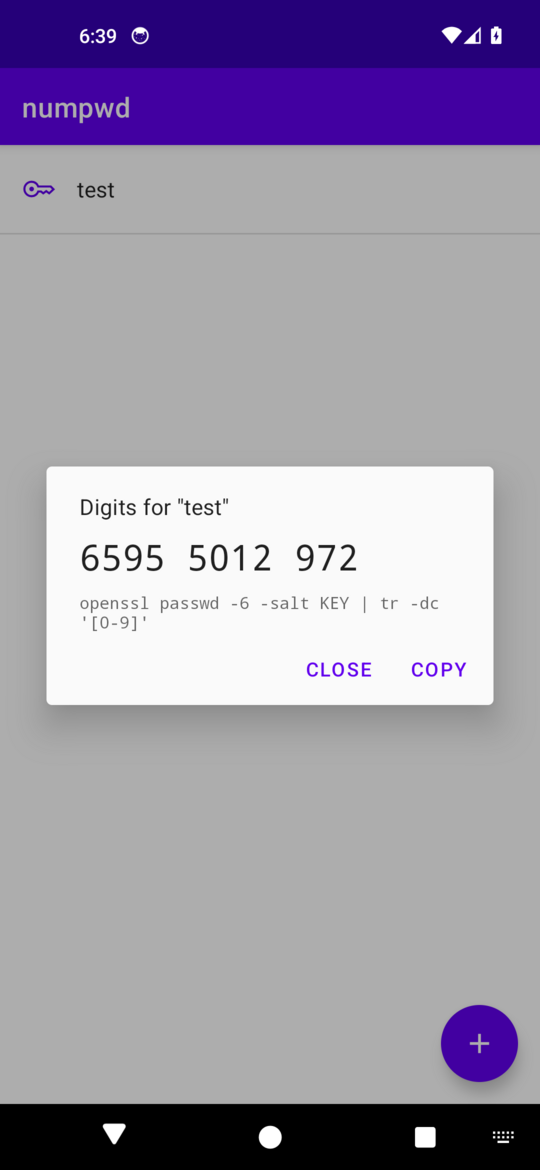
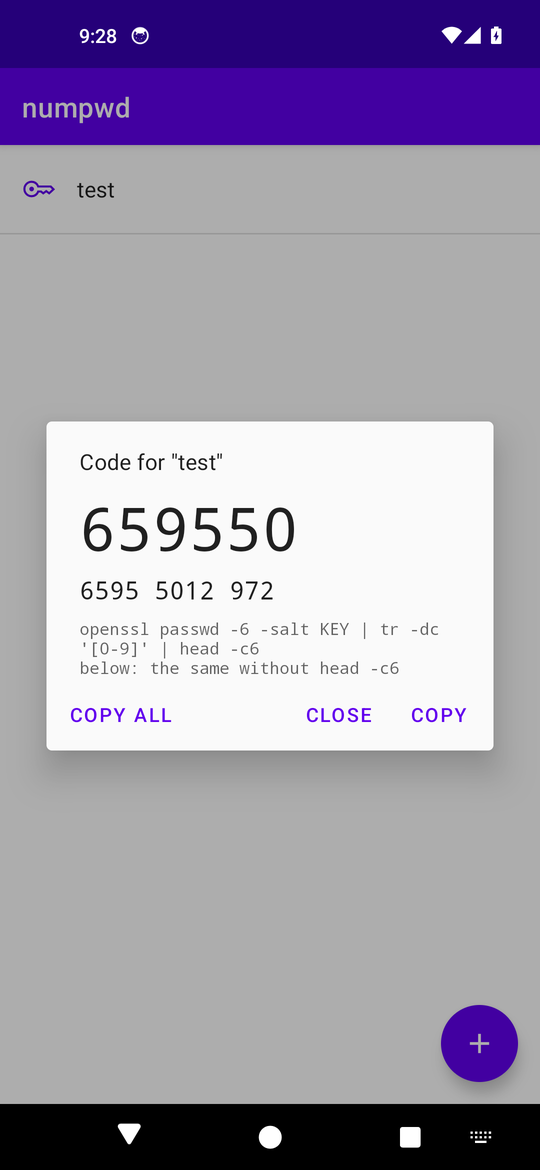
Document the six-character code and the hidden password field
README and the store description show the head -c6 pipeline, the bracket and
short-output cases and the password field behaviour. New screenshots of the
password dialog and the result dialog (light and dark), taken from a local build
without FLAG_SECURE.

diff --git a/README.md b/README.md
@@ -6,15 +6,19 @@ compatible with `openssl passwd -6`.
 ## What it does
 
 The app keeps a list of key names. Tap a key, type a password, and numpwd
-shows the digits that this pipeline prints for the same password typed at the
-openssl prompt:
+shows a six-character code in large print: the first six characters that this
+pipeline prints for the same password typed at the openssl prompt.
 
 ```sh
-openssl passwd -6 -salt KEYNAME | tr -dc '[0-9]'
+openssl passwd -6 -salt KEYNAME | tr -dc '[0-9]' | head -c6
 ```
 
-For example, key `test` with password `abc` gives `65955012972`. The app
-groups the digits in fours for reading and copies them without spaces.
+Below the code the dialog shows the whole `tr` output (the same pipeline
+without `head -c6`), grouped in fours. **Copy** copies the code, **Copy all**
+copies the whole string without spaces.
+
+For example, key `test` with password `abc` gives the code `659550`; the whole
+string is `65955012972`.
 
 Because the result is a plain OpenSSL computation, you can recompute any
 password on a computer without the app.
@@ -22,11 +26,15 @@ password on a computer without the app.
 ## Features
 
 - Only key names are stored. The password is never saved or logged and is
-  excluded from autofill.
+  excluded from autofill and keyboard learning.
+- The password field shows a dot for every character from the first moment,
+  also when the system "Show passwords" setting would briefly show the last
+  typed character. There is no show/hide toggle.
 - The password and result dialogs set `FLAG_SECURE`, so they do not appear in
   screenshots or screen recordings. The key list can still be captured.
-- Copy button. The clipboard is cleared after 30 seconds if it still holds the
-  digits, and the result closes after a minute.
+- Copy buttons for the code and the whole string. The clipboard is cleared
+  after 30 seconds if it still holds the copied value, and the result closes
+  after a minute.
 - No permissions and no network access. Android backup includes only the key
   name list.
 
@@ -40,7 +48,15 @@ password on a computer without the app.
   input longer than 258 bytes. numpwd does the same.
 - `tr -dc '[0-9]'` also keeps `[` and `]`, because the brackets are part of
   the character set. A key name containing brackets therefore shows them in
-  the result too.
+  the result too, and they count towards the six characters of the code like
+  `head -c6` counts them (key `[]`, password `abc` gives the code `6[]009`).
+- The code always starts with `6`: it comes from the `$6$` prefix of the crypt
+  string, before the salt and the hash.
+- The hash part has 86 characters, each a digit with probability 10/64. For a
+  key name without digits, about 0.15% of passwords leave fewer than five
+  digits in the hash, so the whole output is shorter than six characters. The
+  app then shows what there is, like `head -c6`: key `test` with password
+  `pw2002` gives `62960`.
 
 `tools/gen_vectors.py` generates test vectors from the openssl binary;
 `mobile/src/test/resources/openssl_vectors.tsv` holds the committed set.
